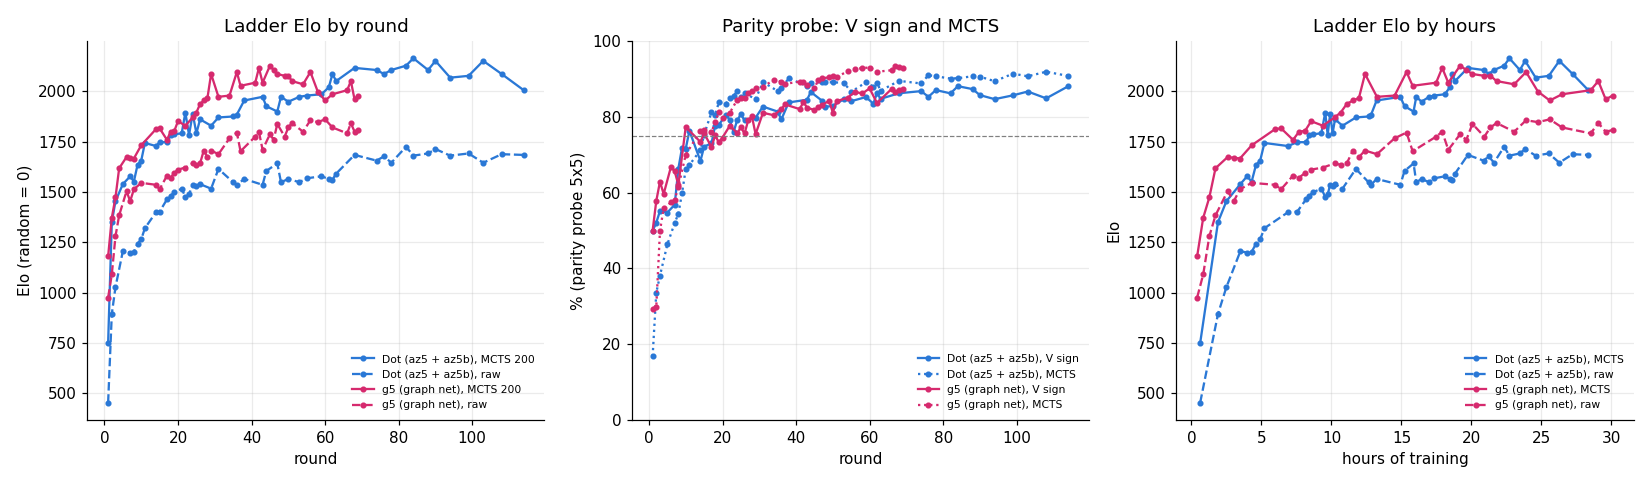
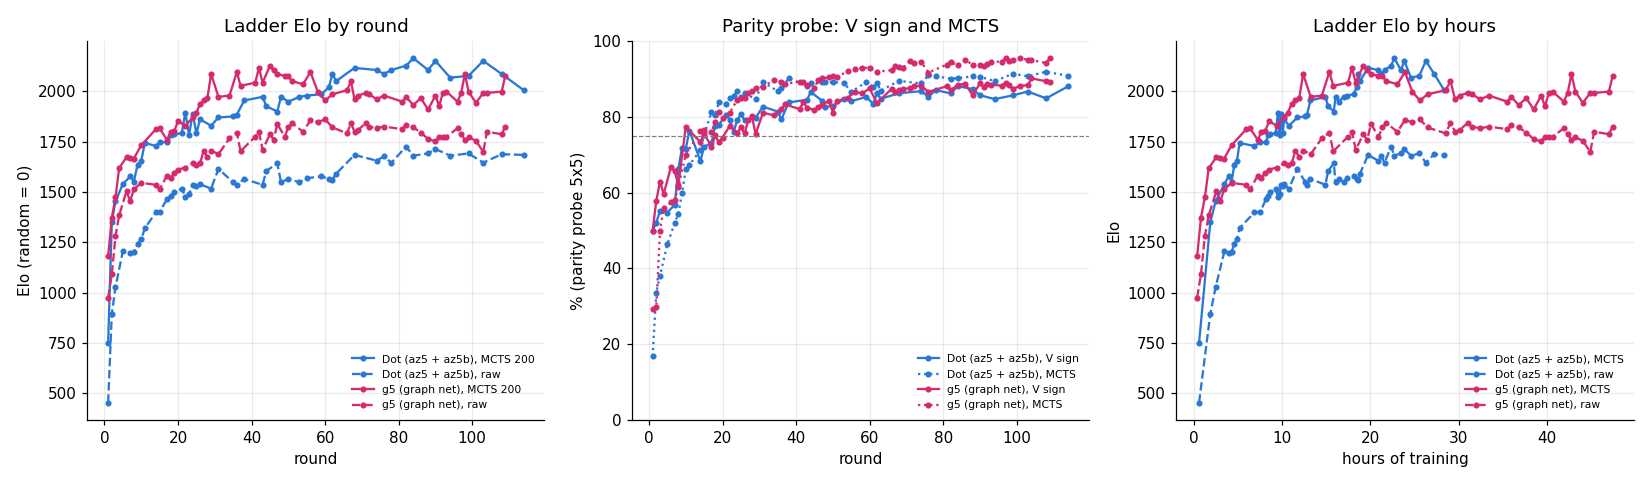
Series 9 daily summary: g5 111 rounds, 65 accepted; MCTS Elo flat ~2000 since round 60, raw ~1800; drop diagnosis in the report

diff --git a/docs/graph_s9.md b/docs/graph_s9.md
@@ -1,14 +1,14 @@
 # Part 4, series 9: the graph net plays 5x5 (run g5)
 
-Generated by `scripts/graph_s9.py report` (2026-11-18 19:56). Protocol: docs/plan_part4.md (series 9), configs/g5.yaml (= configs/az5b.yaml apart from the net, from scratch, and the run plumbing). Dot = az5 (rounds 1-31) then az5b (rounds 32-119) on the same ladder; round = generation (accepted or not).
+Generated by `scripts/graph_s9.py report` (2026-11-19 14:17). Protocol: docs/plan_part4.md (series 9), configs/g5.yaml (= configs/az5b.yaml apart from the net, from scratch, and the run plumbing). Dot = az5 (rounds 1-31) then az5b (rounds 32-119) on the same ladder; round = generation (accepted or not).
 
-State: 69 rounds done, 43 accepted, running. Training hours: 30.1 (to the last evaluated generation).
+State: 111 rounds done, 65 accepted, running. Training hours: 47.4 (to the last evaluated generation).
 
 Workers and limits: from the start 2026-11-17: 6 self-play workers, no GPU memory limit, no nice (user: machine free today; 8 workers measured 19.5k vs 19.0k evals/s at 6, not worth it).
 
-Stop rule (amendment, 2026-11-17, round 16): at least 117 rounds and the best MCTS Elo up by <= 20 over the last 20 rounds; 6 rejects in a row as the fallback; hard cap 250 rounds. Now: judged at round 69 of 117, best MCTS Elo 2127, +0 over the last 20 rounds.
+Stop rule (amendment, 2026-11-17, round 16): at least 117 rounds and the best MCTS Elo up by <= 20 over the last 20 rounds; 6 rejects in a row as the fallback; hard cap 250 rounds. Now: judged at round 109 of 117, best MCTS Elo 2127, +0 over the last 20 rounds.
 
-Pace: self-play 28 min per round, 14800 evals/s (last 5 rounds).
+Pace: self-play 23 min per round, 18294 evals/s (last 5 rounds).
 
 ## Comparison by rounds
 
@@ -25,7 +25,7 @@ Elo (MCTS 200 / without thinking) of the last accepted, evaluated generation wit
 |---:|---:|---|---:|---:|---|---:|
 | 12 | 28 | 1966 / 1673 | 1966 | 31 | 1870 / 1614 | 1895 |
 | 24 | 56 | 2096 / 1856 | 2127 | 90 | 2151 / 1713 | 2164 |
-| 48 | 69 (not yet) | 1979 / 1808 | 2127 | 114 (Dot ended at 28.4 h) | 2005 / 1684 | 2164 |
+| 48 | 109 (not yet) | 2077 / 1825 | 2127 | 114 (Dot ended at 28.4 h) | 2005 / 1684 | 2164 |
 
 ## Re-evaluation of gens 45-60, 300 games per cell
 
@@ -43,6 +43,18 @@ Second amendment (user, 2026-11-18, round 61): is the drop with MCTS after gen 5
 | 56 | 1995 | 1963-2033 | 2096 | 1854 | 1824-1885 | 1856 | 98 / 72 |
 | 58 | 2026 | 1993-2066 | 1999 | 1841 | 1814-1870 | 1847 | 97 / 77 |
 | 60 | 1961 | 1930-1997 | 1954 | 1853 | 1821-1883 | 1861 | 96 / 69 |
+
+## Diagnosis of the MCTS drop (description only)
+
+Third amendment (user, 2026-11-18, round 70); the series' verdict does not change. Positions: 1000 random self-play positions and 1000 middle-game ones (20-40 of 60 lines drawn), drawn once from the replay buffer after round 70 (games of the last ~4 rounds' nets), the same for every generation. Policy: mean entropy (nats, over legal lines) and mean probability of the top move of the raw policy; for reference the entropy of the stored self-play search targets is 1.52. Strong: MCTS 50 / 200 / 800 (no noise, temperature 0), 200 games each, first mover alternating, score %. V sign: sign of V equals the game's result for the mover (the result of a self-play game, not an exact value), middle-game and all positions; probe = V child balanced on the 1000 parity positions (exact labels).
+
+| round | Elo MCTS / raw | policy entropy | top-move mass | strong MCTS 50 | 200 | 800 | V sign mid | V sign all | V sign probe |
+|---:|---|---:|---:|---:|---:|---:|---:|---:|---:|
+| 45 | 2094 / 1748 | 2.09 | 0.39 | 66 | 84 | 87 | 72.4 | 73.4 | 81.8 |
+| 49 | 2122 / 1830 | 2.08 | 0.39 | 78 | 77 | 89 | 71.8 | 73.8 | 84.2 |
+| 54 | 2036 / 1844 | 2.05 | 0.39 | 73 | 78 | 80 | 74.4 | 74.4 | 85.0 |
+| 60 | 1961 / 1853 | 1.96 | 0.42 | 68 | 69 | 72 | 75.9 | 75.1 | 87.5 |
+| 69 (last) | 1979 / 1808 | 1.90 | 0.43 | 66 | 70 | 82 | 77.9 | 77.5 | 87.3 |
 
 ## Rounds (accepted, evaluated generations)
 
@@ -93,5 +105,27 @@ Ladder: win % with MCTS 200 / without thinking, 100 games per cell. Parity probe
 | 67 | 29.1 | 72 | 100 / 100 | 100 / 100 | 100 / 99 | 99 / 97 | 99 / 93 | 79 / 51 | 2051 / 1842 | 73.2 | 86.6 | 93.5 |
 | 68 | 29.6 | 56 | 100 / 100 | 100 / 99 | 100 / 100 | 99 / 96 | 96 / 86 | 69 / 50 | 1960 / 1799 | 73.3 | 87.0 | 93.2 |
 | 69 | 30.1 | 58 | 100 / 100 | 100 / 100 | 100 / 100 | 100 / 96 | 97 / 89 | 70 / 48 | 1979 / 1808 | 74.0 | 87.3 | 92.9 |
+| 71 | 31.0 | 55 | 100 / 100 | 100 / 100 | 100 / 100 | 100 / 97 | 97 / 95 | 72 / 49 | 1992 / 1842 | 72.7 | 87.6 | 94.8 |
+| 72 | 31.5 | 58 | 100 / 100 | 100 / 100 | 99 / 100 | 99 / 98 | 95 / 91 | 74 / 48 | 1985 / 1825 | 72.7 | 88.2 | 94.3 |
+| 74 | 32.4 | 60 | 100 / 100 | 100 / 100 | 100 / 100 | 100 / 98 | 94 / 89 | 70 / 48 | 1960 / 1816 | 74.7 | 88.2 | 94.5 |
+| 76 | 33.4 | 68 | 100 / 100 | 100 / 100 | 100 / 99 | 99 / 97 | 98 / 86 | 70 / 54 | 1979 / 1825 | 72.5 | 86.6 | 91.7 |
+| 81 | 35.5 | 63 | 100 / 100 | 99 / 99 | 100 / 100 | 99 / 100 | 91 / 88 | 73 / 47 | 1948 / 1812 | 75.7 | 88.1 | 93.8 |
+| 82 | 35.9 | 55 | 100 / 100 | 100 / 99 | 99 / 99 | 99 / 98 | 94 / 85 | 73 / 57 | 1972 / 1834 | 73.5 | 87.0 | 94.5 |
+| 84 | 36.8 | 75 | 100 / 100 | 100 / 100 | 100 / 100 | 99 / 99 | 96 / 90 | 64 / 47 | 1931 / 1820 | 72.3 | 88.5 | 93.6 |
+| 86 | 37.6 | 59 | 100 / 100 | 100 / 98 | 100 / 99 | 100 / 95 | 95 / 82 | 70 / 55 | 1966 / 1795 | 73.1 | 88.7 | 95.0 |
+| 88 | 38.5 | 56 | 100 / 100 | 100 / 100 | 100 / 98 | 99 / 95 | 93 / 78 | 63 / 49 | 1910 / 1763 | 75.6 | 85.7 | 93.8 |
+| 90 | 39.3 | 69 | 100 / 100 | 99 / 99 | 100 / 99 | 98 / 93 | 94 / 83 | 76 / 44 | 1979 / 1751 | 73.2 | 88.8 | 93.8 |
+| 91 | 39.8 | 75 | 100 / 100 | 99 / 99 | 100 / 100 | 98 / 96 | 91 / 84 | 70 / 45 | 1926 / 1771 | 75.4 | 87.9 | 93.4 |
+| 92 | 40.2 | 55 | 100 / 100 | 99 / 100 | 100 / 100 | 99 / 96 | 97 / 88 | 74 / 41 | 1992 / 1775 | 73.6 | 88.8 | 94.0 |
+| 93 | 40.6 | 78 | 100 / 100 | 100 / 100 | 100 / 100 | 99 / 96 | 94 / 83 | 77 / 46 | 1999 / 1775 | 74.2 | 88.5 | 94.5 |
+| 96 | 41.9 | 71 | 100 / 100 | 100 / 100 | 100 / 100 | 100 / 97 | 91 / 89 | 71 / 49 | 1948 / 1816 | 73.6 | 88.2 | 94.6 |
+| 97 | 42.3 | 59 | 100 / 100 | 100 / 99 | 100 / 99 | 100 / 98 | 93 / 83 | 76 / 48 | 1992 / 1787 | 76.6 | 89.1 | 95.6 |
+| 98 | 42.8 | 55 | 100 / 100 | 100 / 100 | 100 / 100 | 100 / 96 | 96 / 84 | 85 / 41 | 2086 / 1759 | 76.1 | 88.3 | 94.8 |
+| 99 | 43.2 | 61 | 100 / 100 | 100 / 100 | 100 / 99 | 100 / 99 | 96 / 82 | 74 / 43 | 1999 / 1771 | 74.8 | 87.5 | 94.9 |
+| 101 | 44.0 | 59 | 100 / 100 | 100 / 100 | 99 / 99 | 100 / 98 | 87 / 82 | 74 / 40 | 1943 / 1755 | 76.3 | 88.2 | 95.4 |
+| 103 | 44.9 | 83 | 100 / 100 | 100 / 100 | 100 / 100 | 100 / 94 | 94 / 74 | 75 / 37 | 1992 / 1699 | 76.2 | 88.4 | 95.1 |
+| 104 | 45.3 | 84 | 100 / 100 | 100 / 99 | 100 / 99 | 100 / 94 | 96 / 88 | 73 / 50 | 1992 / 1799 | 77.6 | 90.1 | 95.0 |
+| 108 | 47.0 | 85 | 100 / 100 | 99 / 100 | 100 / 99 | 100 / 96 | 94 / 81 | 77 / 51 | 1999 / 1787 | 75.2 | 89.4 | 94.2 |
+| 109 | 47.4 | 64 | 100 / 100 | 99 / 100 | 99 / 100 | 100 / 96 | 97 / 90 | 84 / 51 | 2077 / 1825 | 75.7 | 89.1 | 95.6 |
 
 ![g5 next to Dot](graph_s9.png)

diff --git a/docs/g5_ladder.md b/docs/g5_ladder.md
@@ -1,6 +1,6 @@
 # AlphaZero 5x5 (g5) — ladder per accepted generation
 
-Generated by `scripts/az_eval.py` from `runs/g5` (2026-11-18 19:55). Win % of the net, 100 games per cell, first mover alternating; raw = policy argmax without search, mcts = 200 simulations. Elo: Bradley-Terry vs the fixed ladder anchors, random = 0. strong here: {'node_budget': 23000}.
+Generated by `scripts/az_eval.py` from `runs/g5` (2026-11-19 13:15). Win % of the net, 100 games per cell, first mover alternating; raw = policy argmax without search, mcts = 200 simulations. Elo: Bradley-Terry vs the fixed ladder anchors, random = 0. strong here: {'node_budget': 23000}.
 
 Anchor Elo (from the ladder in docs/results.md): random 0, greedy 905, easy 888, medium 1235, hard 1488, strong 1815.
 
@@ -49,3 +49,25 @@ Anchor Elo (from the ladder in docs/results.md): random 0, greedy 905, easy 888,
 | 67 | 72 | 100 | 100 | 99 | 97 | 93 | 51 | 1838 | 100 | 100 | 100 | 99 | 99 | 79 | 2048 |
 | 68 | 56 | 100 | 99 | 100 | 96 | 86 | 50 | 1799 | 100 | 100 | 100 | 99 | 96 | 69 | 1959 |
 | 69 | 58 | 100 | 100 | 100 | 96 | 89 | 48 | 1808 | 100 | 100 | 100 | 100 | 97 | 70 | 1977 |
+| 71 | 55 | 100 | 100 | 100 | 97 | 95 | 49 | 1842 | 100 | 100 | 100 | 100 | 97 | 72 | 1990 |
+| 72 | 58 | 100 | 100 | 100 | 98 | 91 | 48 | 1825 | 100 | 100 | 99 | 99 | 95 | 74 | 1977 |
+| 74 | 60 | 100 | 100 | 100 | 98 | 89 | 48 | 1816 | 100 | 100 | 100 | 100 | 94 | 70 | 1959 |
+| 76 | 68 | 100 | 100 | 99 | 97 | 86 | 54 | 1820 | 100 | 100 | 100 | 99 | 98 | 70 | 1977 |
+| 81 | 63 | 100 | 99 | 100 | 100 | 88 | 47 | 1812 | 100 | 99 | 100 | 99 | 91 | 73 | 1947 |
+| 82 | 55 | 100 | 99 | 99 | 98 | 85 | 57 | 1829 | 100 | 100 | 99 | 99 | 94 | 73 | 1965 |
+| 84 | 75 | 100 | 100 | 100 | 99 | 90 | 47 | 1820 | 100 | 100 | 100 | 99 | 96 | 64 | 1930 |
+| 86 | 59 | 100 | 98 | 99 | 95 | 82 | 55 | 1791 | 100 | 100 | 100 | 100 | 95 | 70 | 1965 |
+| 88 | 56 | 100 | 100 | 98 | 95 | 78 | 49 | 1756 | 100 | 100 | 100 | 99 | 93 | 63 | 1909 |
+| 90 | 69 | 100 | 99 | 99 | 93 | 83 | 44 | 1748 | 100 | 99 | 100 | 98 | 94 | 76 | 1977 |
+| 91 | 75 | 100 | 99 | 100 | 96 | 84 | 45 | 1771 | 100 | 99 | 100 | 98 | 91 | 70 | 1925 |
+| 92 | 55 | 100 | 100 | 100 | 96 | 88 | 41 | 1775 | 100 | 99 | 100 | 99 | 97 | 74 | 1990 |
+| 93 | 78 | 100 | 100 | 100 | 96 | 83 | 46 | 1775 | 100 | 100 | 100 | 99 | 94 | 77 | 1996 |
+| 96 | 71 | 100 | 100 | 100 | 97 | 89 | 49 | 1816 | 100 | 100 | 100 | 100 | 91 | 71 | 1947 |
+| 97 | 59 | 100 | 99 | 99 | 98 | 83 | 48 | 1783 | 100 | 100 | 100 | 100 | 93 | 76 | 1990 |
+| 98 | 55 | 100 | 100 | 100 | 96 | 84 | 41 | 1760 | 100 | 100 | 100 | 100 | 96 | 85 | 2082 |
+| 99 | 61 | 100 | 100 | 99 | 99 | 82 | 43 | 1767 | 100 | 100 | 100 | 100 | 96 | 74 | 1996 |
+| 101 | 59 | 100 | 100 | 99 | 98 | 82 | 40 | 1752 | 100 | 100 | 99 | 100 | 87 | 74 | 1936 |
+| 103 | 83 | 100 | 100 | 100 | 94 | 74 | 37 | 1700 | 100 | 100 | 100 | 100 | 94 | 75 | 1990 |
+| 104 | 84 | 100 | 99 | 99 | 94 | 88 | 50 | 1795 | 100 | 100 | 100 | 100 | 96 | 73 | 1990 |
+| 108 | 85 | 100 | 100 | 99 | 96 | 81 | 51 | 1783 | 100 | 99 | 100 | 100 | 94 | 77 | 1996 |
+| 109 | 64 | 100 | 100 | 100 | 96 | 90 | 51 | 1825 | 100 | 99 | 99 | 100 | 97 | 84 | 2064 |

diff --git a/docs/overnight.md b/docs/overnight.md
@@ -1371,3 +1371,12 @@ training"; no 7x10; Dot-2 is 6x64; Dot level = MCTS ladder Elo >= 2100 and
   1850 by gen 50 and stayed there. The search adds less: MCTS - raw 346 at gen 45, 108 at gen 60.
 - Gen 56's 100-games 2096 was lucky (300 games: 1995). With the 300-games values the best MCTS generation is 49.
 - Self-play slowed from 23 to 28 min per round while the re-evaluation ran (16:00-19:35); training continued.
+
+### 2026-11-19 14:17 — series 9: daily summary (g5)
+
+- Running without errors. 111 rounds done, 65 accepted; no stop yet (judged at round 109 of 117, best MCTS Elo
+  2127 from gen 45's 100-games evaluation, +0 over the last 20 rounds -> expected to stop at round 117, ~17:00).
+- Since round 60 MCTS Elo 1930-2090 (100 games), raw 1700-1850; gen 109: 2077 / 1825, hard 97 / 90 %, strong 84 / 51 %,
+  V sign 89.1 %, MCTS on the probe 95.6 %.
+- Diagnosis of the MCTS drop done 2026-11-18 23:09 (section in graph_s9.md): policy entropy 2.09 -> 1.90, gain from
+  MCTS 50 to 800 vs strong smaller at gens 54/60, V sign better at later gens; rounds slowed by 9-13 % meanwhile.
